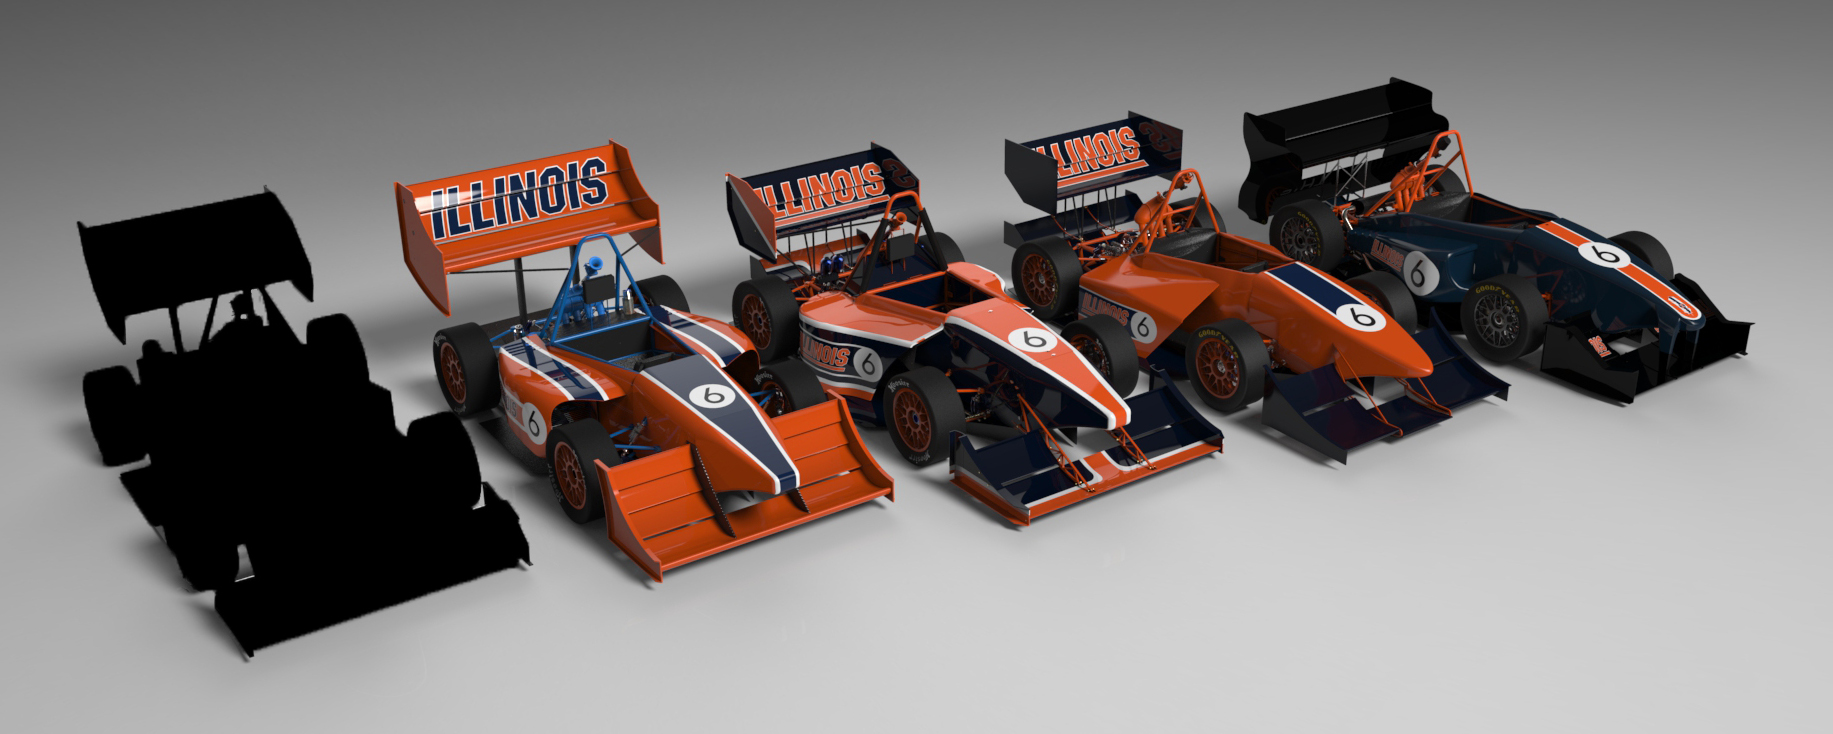
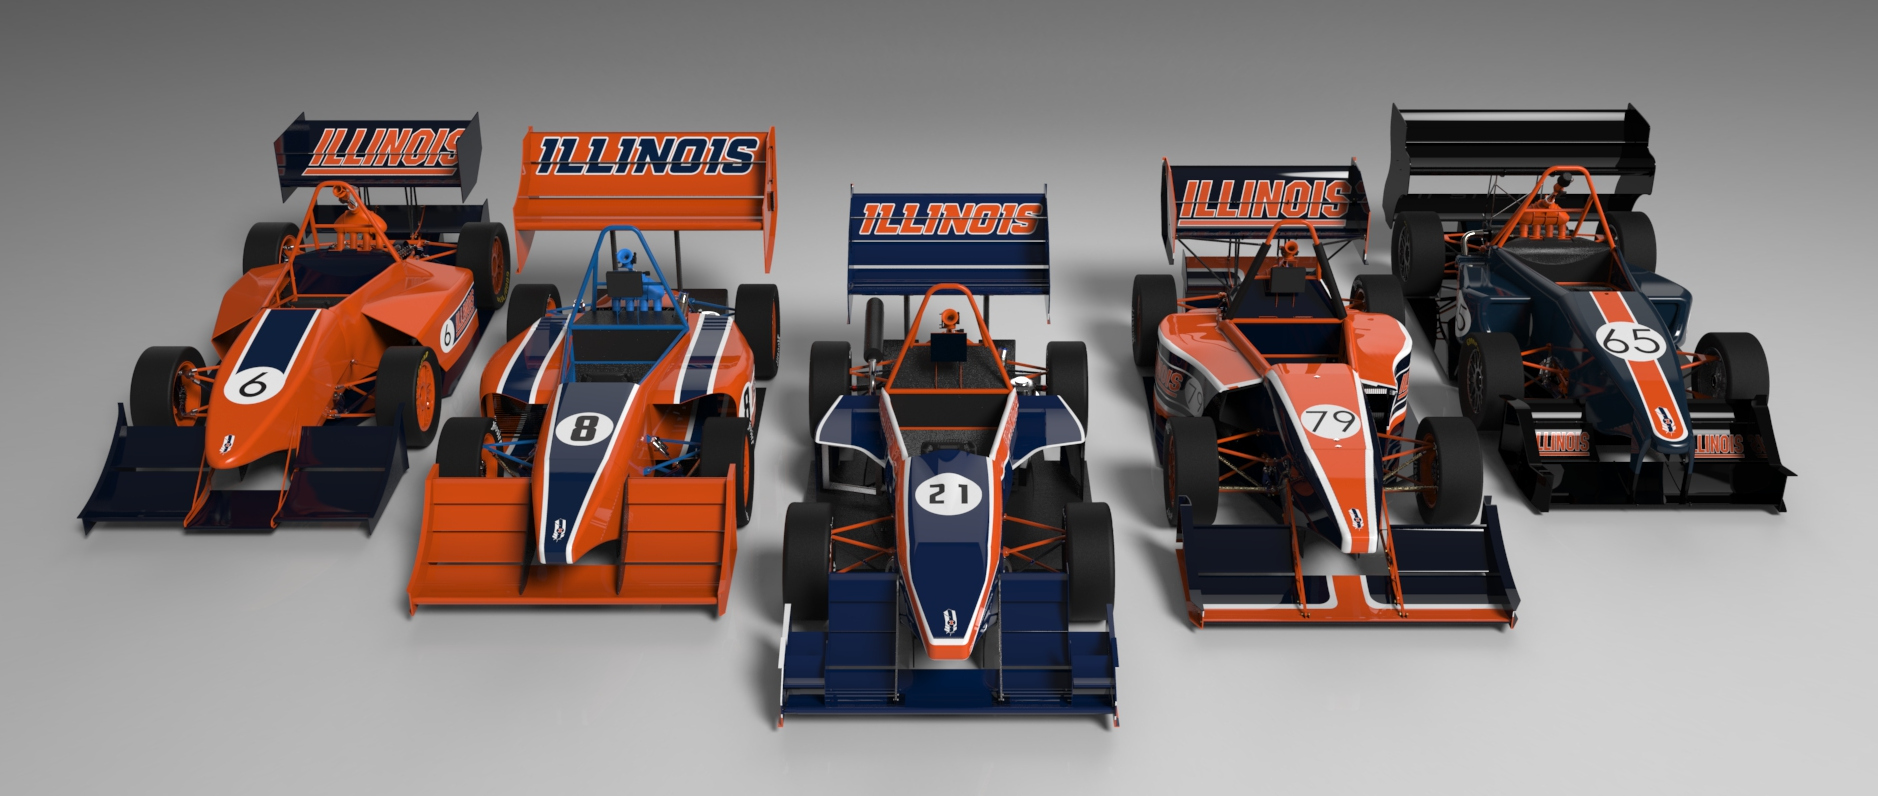
Add 2014-2015 car page and other various updates.

diff --git a/less/main.less b/less/main.less
@@ -286,6 +286,14 @@ h4 {
   }
 }
 
+.contact {
+
+  h1 {
+    margin-top: 0px;
+    margin-bottom: 25px;
+  }
+}
+
 @media only screen and (min-width: @screen-sm) {
 
   #hero-main {

diff --git a/php/cars.php b/php/cars.php
@@ -10,7 +10,6 @@
     <div class="content container">
       <div class="panel-group" id="accordion">
 
-      <!--
         <div class="panel panel-default">
 
           <div class="panel-heading accordion-toggle" data-toggle="collapse" data-parent="#accordion" href="#collapse-2015">
@@ -27,7 +26,7 @@
                 <div class="col-md-4">
                   <h2>2014-2015</h2>
 
-                  <p>Stay tuned...</p>
+                  <p>Illini Motorsports 2015 competition entry has been designed using points analysis coupled lap simulation and a renewed focus on reliability. Key design changes include a new aerodynamics package featuring custom airfoils, a redesigned brake system, improved engine cooling, and upddates to our custom electronics package. We would like to thank our friends, families, and sponsors for their continued support.</p>
 
                   <table class="table table-hover">
                     <thead>
@@ -38,12 +37,12 @@
                     <tbody>
                       <tr>
                         <td>FSAE Michigan 2015</td>
-                        <td>TBD</td>
+                        <td>47th Overall</td>
                       </tr>
 
                       <tr>
                         <td>FSAE Lincoln 2015</td>
-                        <td>TBD</td>
+                        <td>3rd Overall</td>
                       </tr>
                     </tbody>
                   </table>
@@ -52,11 +51,124 @@
                 <div class="col-md-8">
                   <img src="./img/car_2015.jpg">
                 </div>
+
+                <div class="row">
+                  <div class="col-md-6">
+                    <table class="table table-hover">
+                      <thead>
+                        <th>Data Points</th>
+                        <th>
+                      </thead>
+
+                      <tbody>
+                        <tr>
+                          <td>Brake</td>
+                          <td>AP Racing 4-piston front, 2-piston rear</td>
+                        </tr>
+
+                        <tr>
+                          <td>BSCD</td>
+                          <td>67mm bore / 42.5mm stroke / 599cc</td>
+                        </tr>
+
+                        <tr>
+                          <td>Cooling</td>
+                          <td>Vertically mounted single core double pass radiator, 1221 cfm fan</td>
+                        </tr>
+
+                        <tr>
+                          <td>Drive</td>
+                          <td>RWD</td>
+                        </tr>
+
+                        <tr>
+                          <td>Electronics</td>
+                          <td>Motec M400 ECU and student designed data aquisition</td>
+                        </tr>
+
+                        <tr>
+                          <td>Engine</td>
+                          <td>Honda CBR600 F4i</td>
+                        </tr>
+
+                        <tr>
+                          <td>FR/RR Track</td>
+                          <td>49in front, 49in rear</td>
+                        </tr>
+
+                        <tr>
+                          <td>Frame</td>
+                          <td>4130 Steel space frame</td>
+                        </tr>
+
+                        <tr>
+                          <td>Fuel System</td>
+                          <td>Stock Honda</td>
+                        </tr>
+                      </tbody>
+                    </table>
+                  </div>
+
+                  <div class="col-md-6">
+                    <table class="table table-hover">
+                      <thead>
+                        <th>Data Points</th>
+                        <th>
+                      </thead>
+
+                      <tbody>
+                        <tr>
+                          <td>Fuel Type</td>
+                          <td>93 Octane</td>
+                        </tr>
+
+                        <tr>
+                          <td>MPD</td>
+                          <td>10500 rpm</td>
+                        </tr>
+
+                        <tr>
+                          <td>MPT</td>
+                          <td>9000 rpm</td>
+                        </tr>
+
+                        <tr>
+                          <td>OLWH</td>
+                          <td>L: 3109mm / W: 1468mm / H: 1124mm</td>
+                        </tr>
+
+                        <tr>
+                          <td>Suspension</td>
+                          <td>Double unequal length A-arms, Ohlins TTX25 dampers</td>
+                        </tr>
+
+                        <tr>
+                          <td>Tire</td>
+                          <td>20.5x7x13 Hoosier R25B</td>
+                        </tr>
+
+                        <tr>
+                          <td>Unique</td>
+                          <td>Custom airfoils, custom CFRP steering wheel, custom PDM</td>
+                        </tr>
+
+                        <tr>
+                          <td>Weight</td>
+                          <td>620 lbs with 150lb driver</td>
+                        </tr>
+
+                        <tr>
+                          <td>Wheelbase</td>
+                          <td>64in</td>
+                        </tr>
+                      </tbody>
+                    </table>
+                  </div>
+                </div>
               </div>
             </div>
           </div>
         </div>
-        -->
 
         <div class="panel panel-default">
           <div class="panel-heading accordion-toggle" data-toggle="collapse" data-parent="#accordion" href="#collapse-2014">
@@ -67,7 +179,7 @@
             </h4>
           </div>
 
-          <div id="collapse-2014" class="panel-collapse collapse in">
+          <div id="collapse-2014" class="panel-collapse collapse">
             <div class="panel-body">
               <div class="row">
                 <div class="col-md-4">

diff --git a/php/contact.php b/php/contact.php
@@ -24,10 +24,13 @@
     <?php include './head.php'; ?>
   </head>
 
-  <body>
+  <body class="contact">
     <?php include './header.php'; ?>
 
+
     <div class="content container">
+      <h1>Contact the Team</h1>
+
       <?php
       //If the form is submitted:
       if(isset($_POST['submit'])){
@@ -105,7 +108,7 @@
           }
         }
 
-        if ($msgSubjectJoin == FALSE && $msgSubjectSponsor == FALSE && $msgSubjectWebsite == FALSE 
+        if ($msgSubjectJoin == FALSE && $msgSubjectSponsor == FALSE && $msgSubjectWebsite == FALSE
             && $msgSubjectOther == FALSE && $msgSubjectOrganization == FALSE) {
           $subjectError = true;
           $hasError = true;
